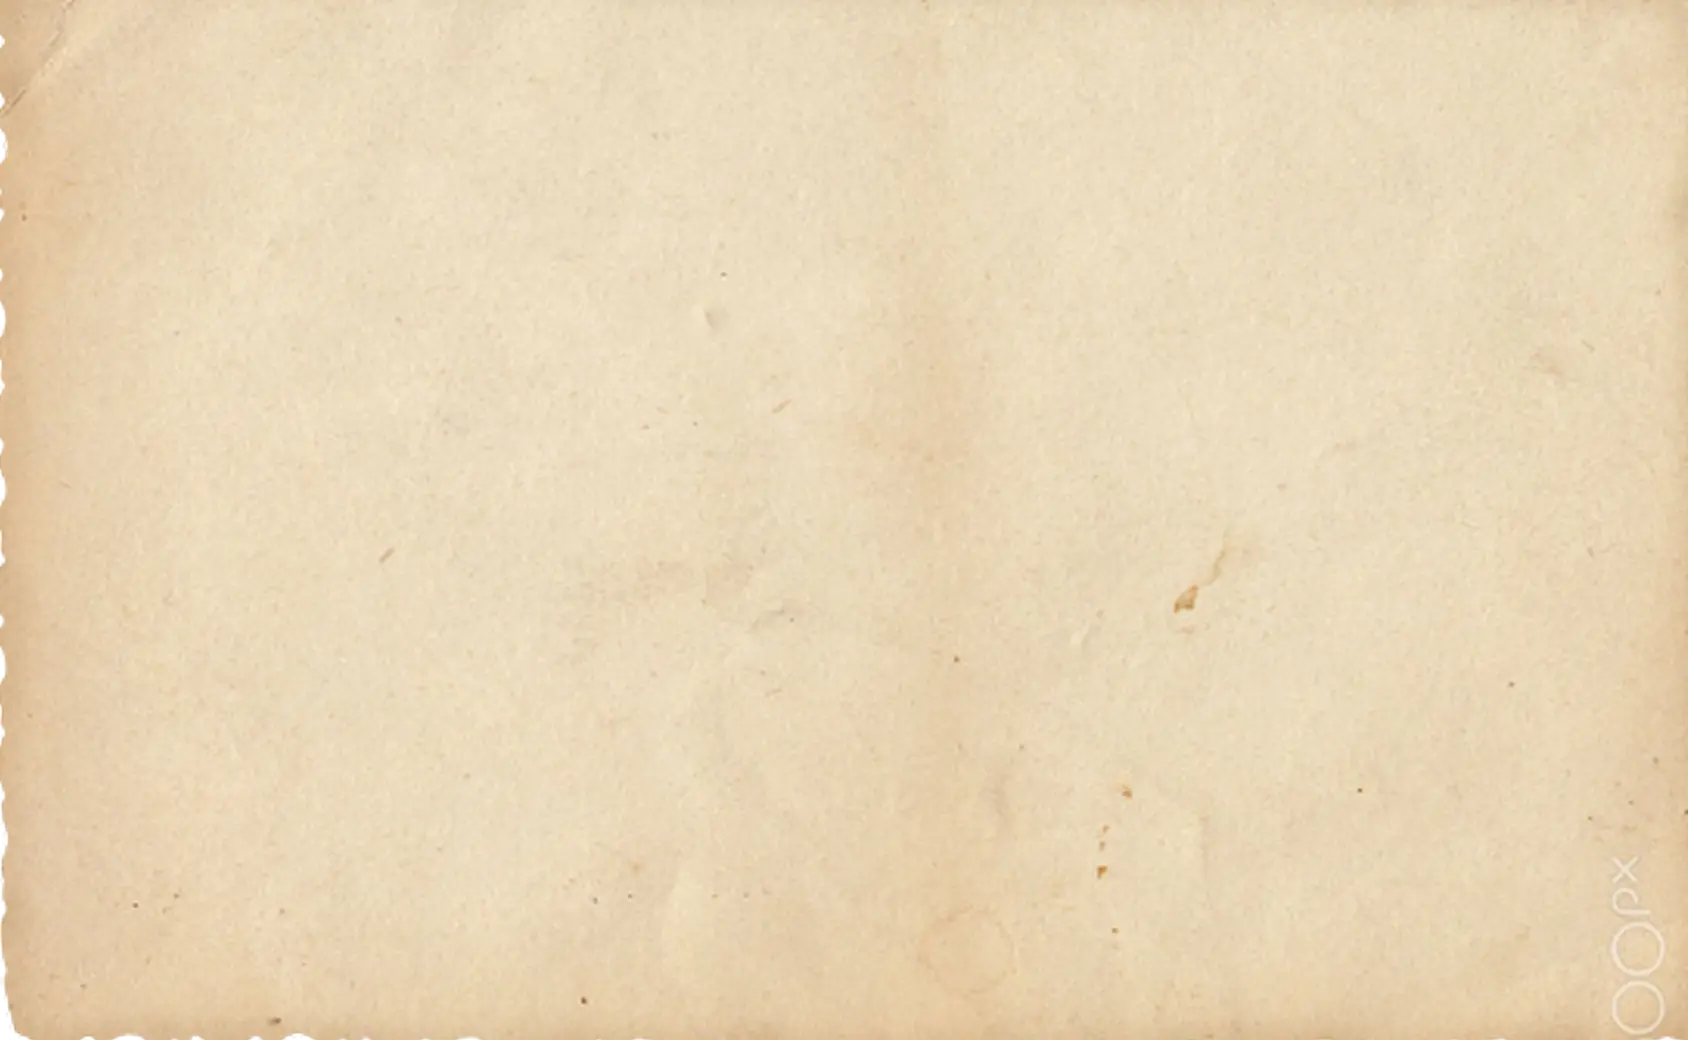
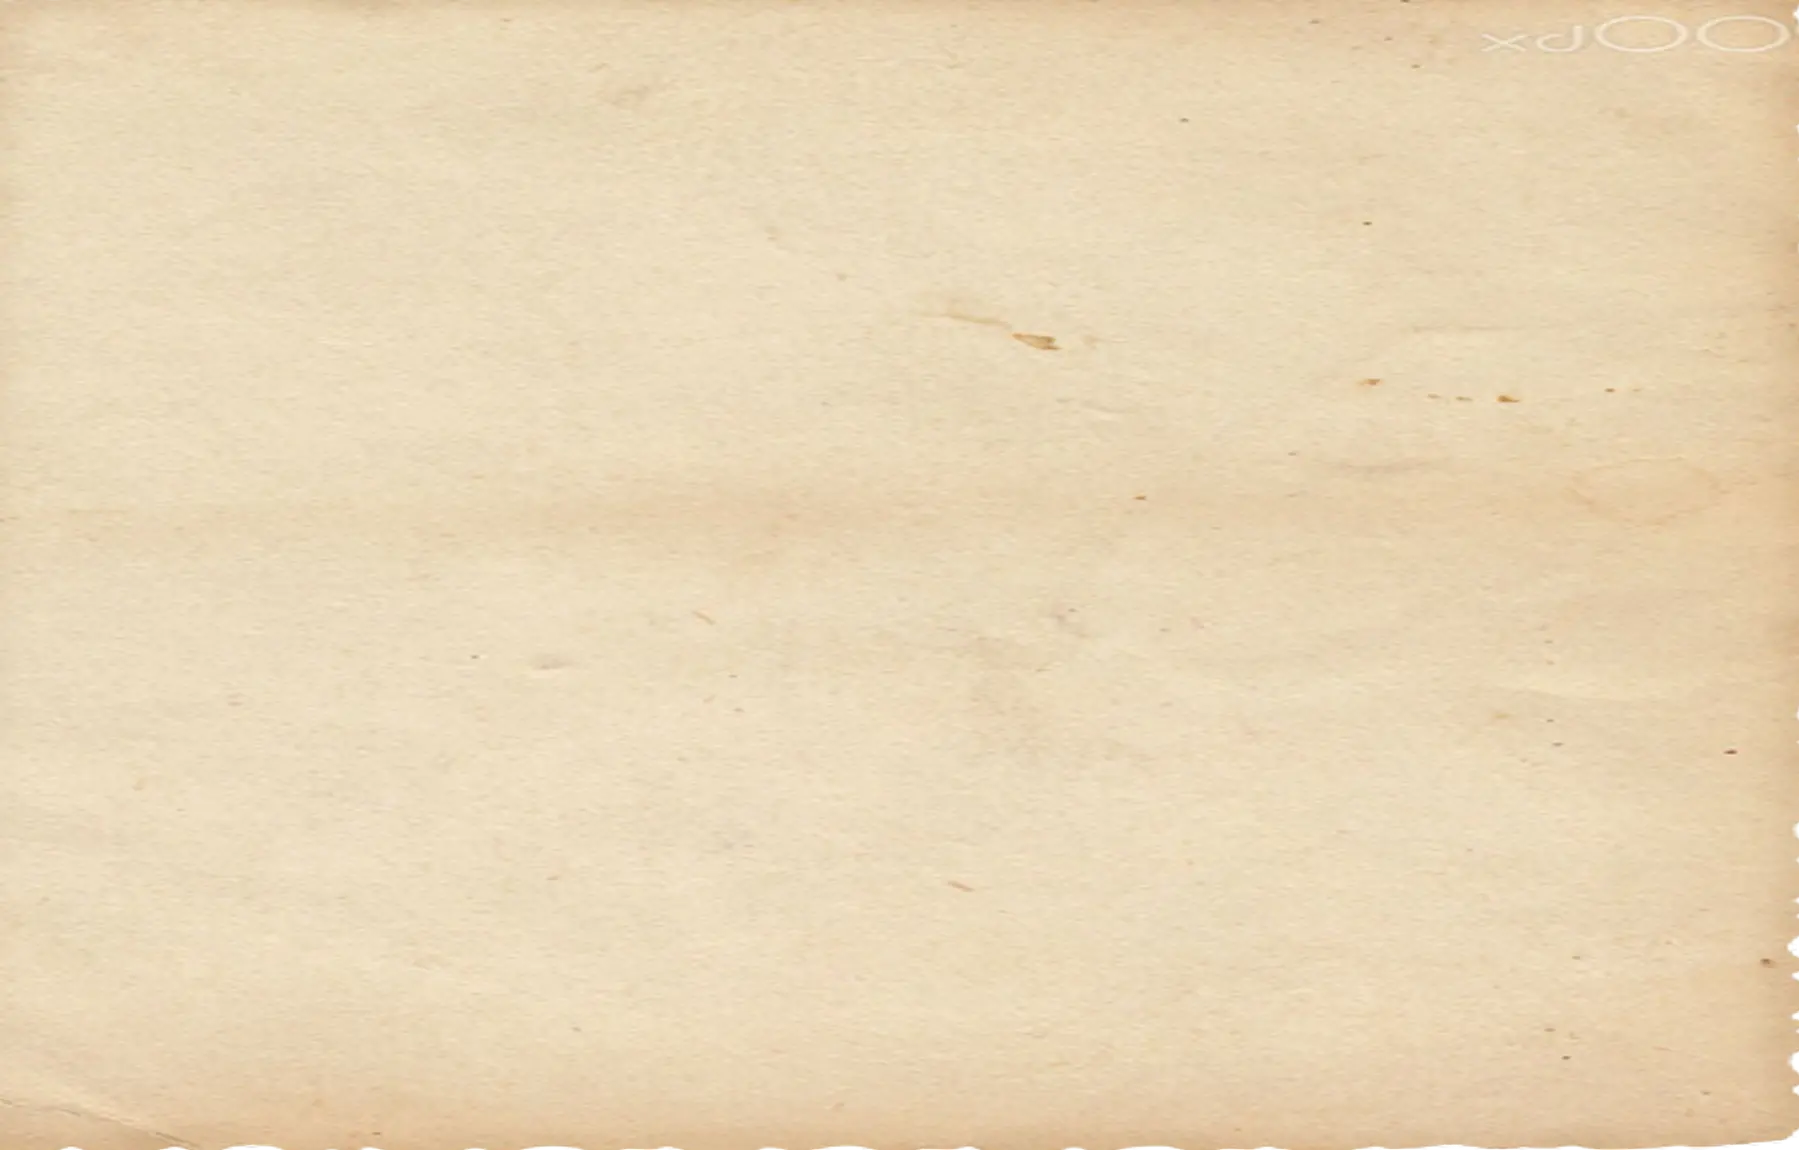
style: update bg's dos cards

diff --git a/src/views/CardStackView.vue b/src/views/CardStackView.vue
@@ -158,18 +158,35 @@ onMounted(() => {
   overflow: hidden;
   border-radius: var(--radius-lg);
 }
-
-/* Card base dentro do slide */
 .stack-view__card {
   width: 100%;
   height: 100%;
   padding: 2rem;
-  overflow-y: auto;
+  
+}
+.stack-view__card {
   background-repeat: no-repeat;
-  background-position: center;
   background-size: cover;
-  position: relative;
-  background-image: url('https://i.pinimg.com/1200x/e7/78/c3/e778c3a0bb0eb3df9344f32391b9ffcd.jpg');
+  background-position: center;
+}
+.stack-view__intro.stack-view__card {
+  background: url('../assets/images/cards/card_bg/bg__green.webp');
+}
+
+.stack-view__card.stack-view__book-list {
+  background: url('../assets/images/cards/card_bg/bg__blue.webp');
+}
+
+.stack-view__card.stack-view__now {
+  background: url('../assets/images/cards/card_bg/bg__red.webp');
+}
+
+.stack-view__card.stack-view__year {
+  background: url('../assets/images/cards/card_bg/bg__yellow.webp');
+}
+
+.stack-view__card.stack-view__tbr {
+  background: url('../assets/images/cards/card_bg/bg__pink.webp');
 }
 
 /* Card da lista de livros com background */
